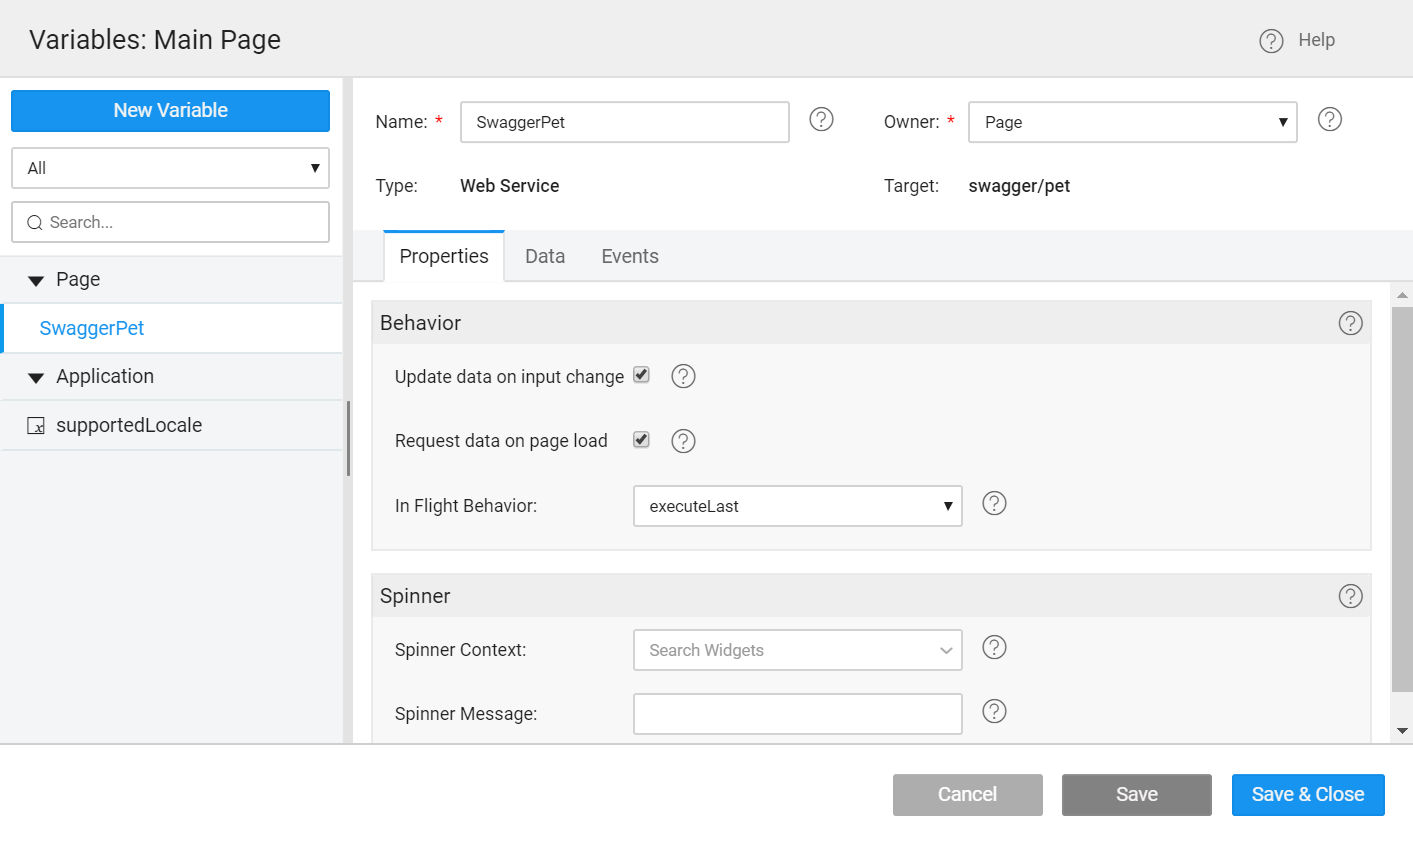
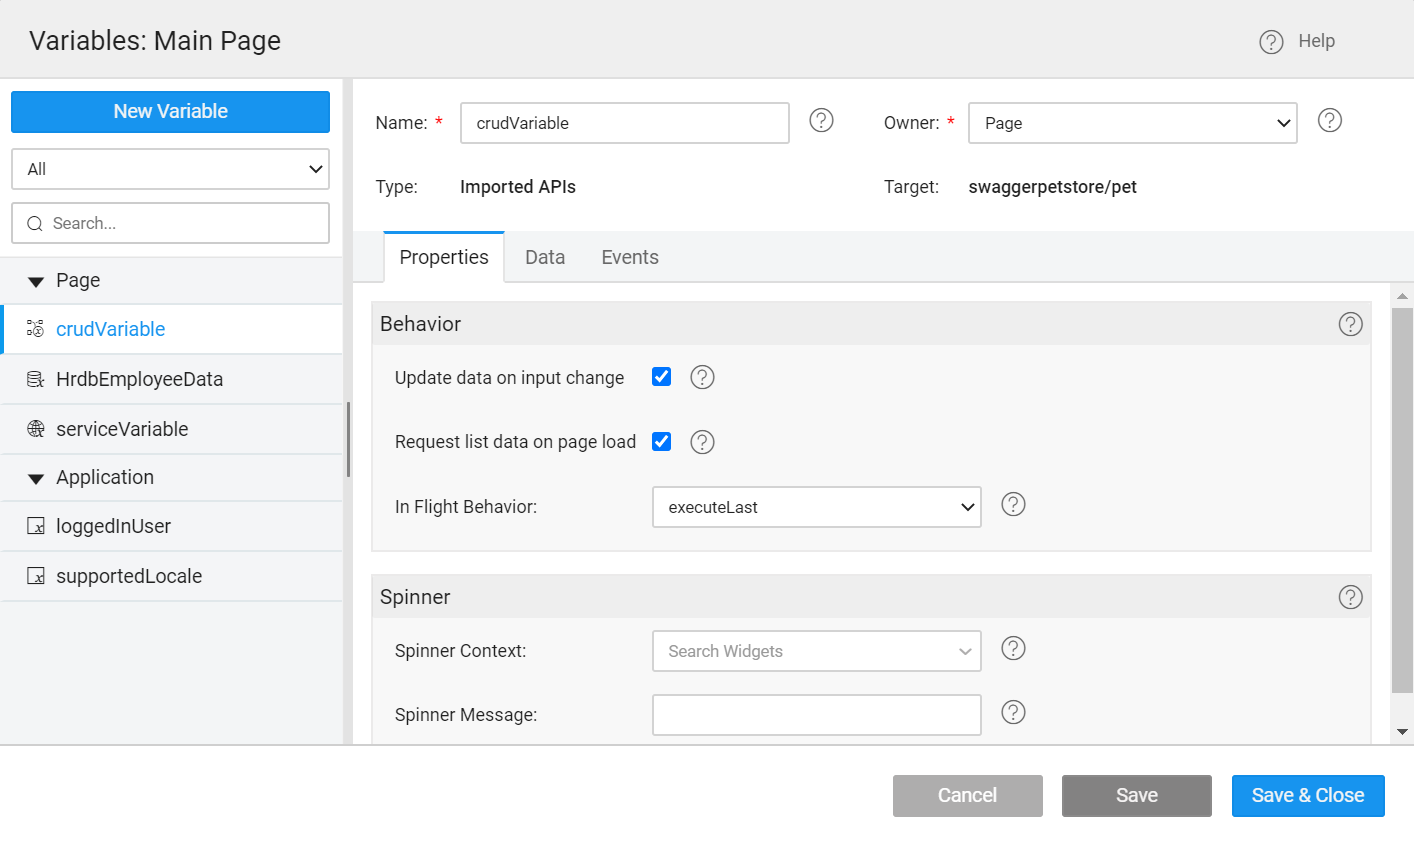
updated properties

diff --git a/learn/app-development/variables/web-service.md b/learn/app-development/variables/web-service.md
@@ -5,7 +5,7 @@ sidebar_label: "Service Variable"
 ---
 ---
 
-For every service imported into the app, the APIs exposed by the service can be accessed to perform many operations with it. A Variable needs to be created to invoke the service and store the results of that invocation. The Variable operations are restricted by the offerings of the underlying service.
+For every service imported into the app, the APIs exposed by the service can be accessed to perform many operations with it. A variable needs to be created to invoke the service and store the results of that invocation. The Variable operations are restricted by the offerings of the underlying service.
 
 A comprehensive list of these APIs can be found from the [API Designer](/learn/assets/API_Access.png) after the import of the service.
 
@@ -78,15 +78,20 @@ The data source for the Variable comes from the imported Services.
 - **Owner**: The scope of the Variable. Page is the default option. You can choose Application to make it available across the app.
 - Click **Done** to complete the variable creation process.
 
-### Variable Properties and events
+### Variable Properties and Events
+
+![variable creation](/learn/assets/var_sel.png)
 
 You will be directed to the Variables page, with the new variable listed. You can see the following options.
 
-1. a **Web Service** Variable is created,
-2. with the default exposed method/selected method as target
-3. the **properties tab** contains all the properties like _behavior_ and _spinner_ behavior. [Know more about properties](#properties).
-4. the **data tab** will contain the fields serving as _input fields_ for the API
-5. the **events** tab will contain the events that can be configured to trigger any action. [Know more about events](#events).
+![crud variable properties](/learn/assets/service-variable-properties.png)
+
+1. **Name**: You can modify the variable name.
+2. **Owner**: The scope of the Variable. Page is the default option. You can choose Application to make it available across the app.
+3. A new **Web Service** variable created with the default exposed method/selected method as a target.
+4. The **Properties** tab contains all the properties like behavior and spinner behavior. [Learn more](#properties).
+5. The **Data** tab contains the fields serving as **Input Fields** for the API.
+6. The **Events** tab contains the events that can be configured to trigger any action. [Learn more](#events).
 
 ## Properties
 

diff --git a/learn/app-development/variables/crud-variable.md b/learn/app-development/variables/crud-variable.md
@@ -5,7 +5,7 @@ sidebar_label: "CRUD Variable"
 ---
 ---
 
-For every service imported into the app, the APIs exposed by the service can be accessed to perform many operations with it. To create a CRUD variable, you can create a CRUD variable or drag-and-drop a widget to invoke the service and store the results of that invocation. The Variable operations are restricted by the offerings of the underlying service.
+For every service imported into the app, the APIs exposed by the service can be accessed to perform many operations with it. A variable needs to be created to invoke the service and store the results of that invocation. The Variable operations are restricted by the offerings of the underlying service.
 
 A comprehensive list of these APIs can be found from the [API Designer](/learn/assets/API_Access.png) after the import of the service.
 
@@ -70,14 +70,20 @@ Drag and drop the [supported-widget](#supported-widgets) on the canvas. For exam
 
 For more information to create Datatable, see [Create a Datatable](/learn/app-development/widgets/datalive/datatable/data-table-basic-usage).
 
-### Edit Variable
+### Variable Properties and Events
 
 ![variable creation](/learn/assets/var_sel.png)
 
+You will be directed to the Variables page, with the new variable listed. You can see the following options.
+
 ![crud variable properties](/learn/assets/crud-var-properties.png)
 
-- **Name**: You can modify Name.
-- **Owner**: The scope of the Variable. Page is the default option. You can choose Application to make it available across the app.
+1. **Name**: You can modify the variable name.
+2. **Owner**: The scope of the Variable. Page is the default option. You can choose Application to make it available across the app.
+3. A new **Imported APIs** Variable created with the default exposed method/selected method as a target.
+4. The **Properties** tab contains all the properties like behavior and spinner behavior. [Learn more](#properties).
+5. The **Data** tab contains the fields serving as **Input Fields** for the API.
+6. The **Events** tab contains the events that can be configured to trigger any action. [Learn more](#events).
 
 ## Properties
 
